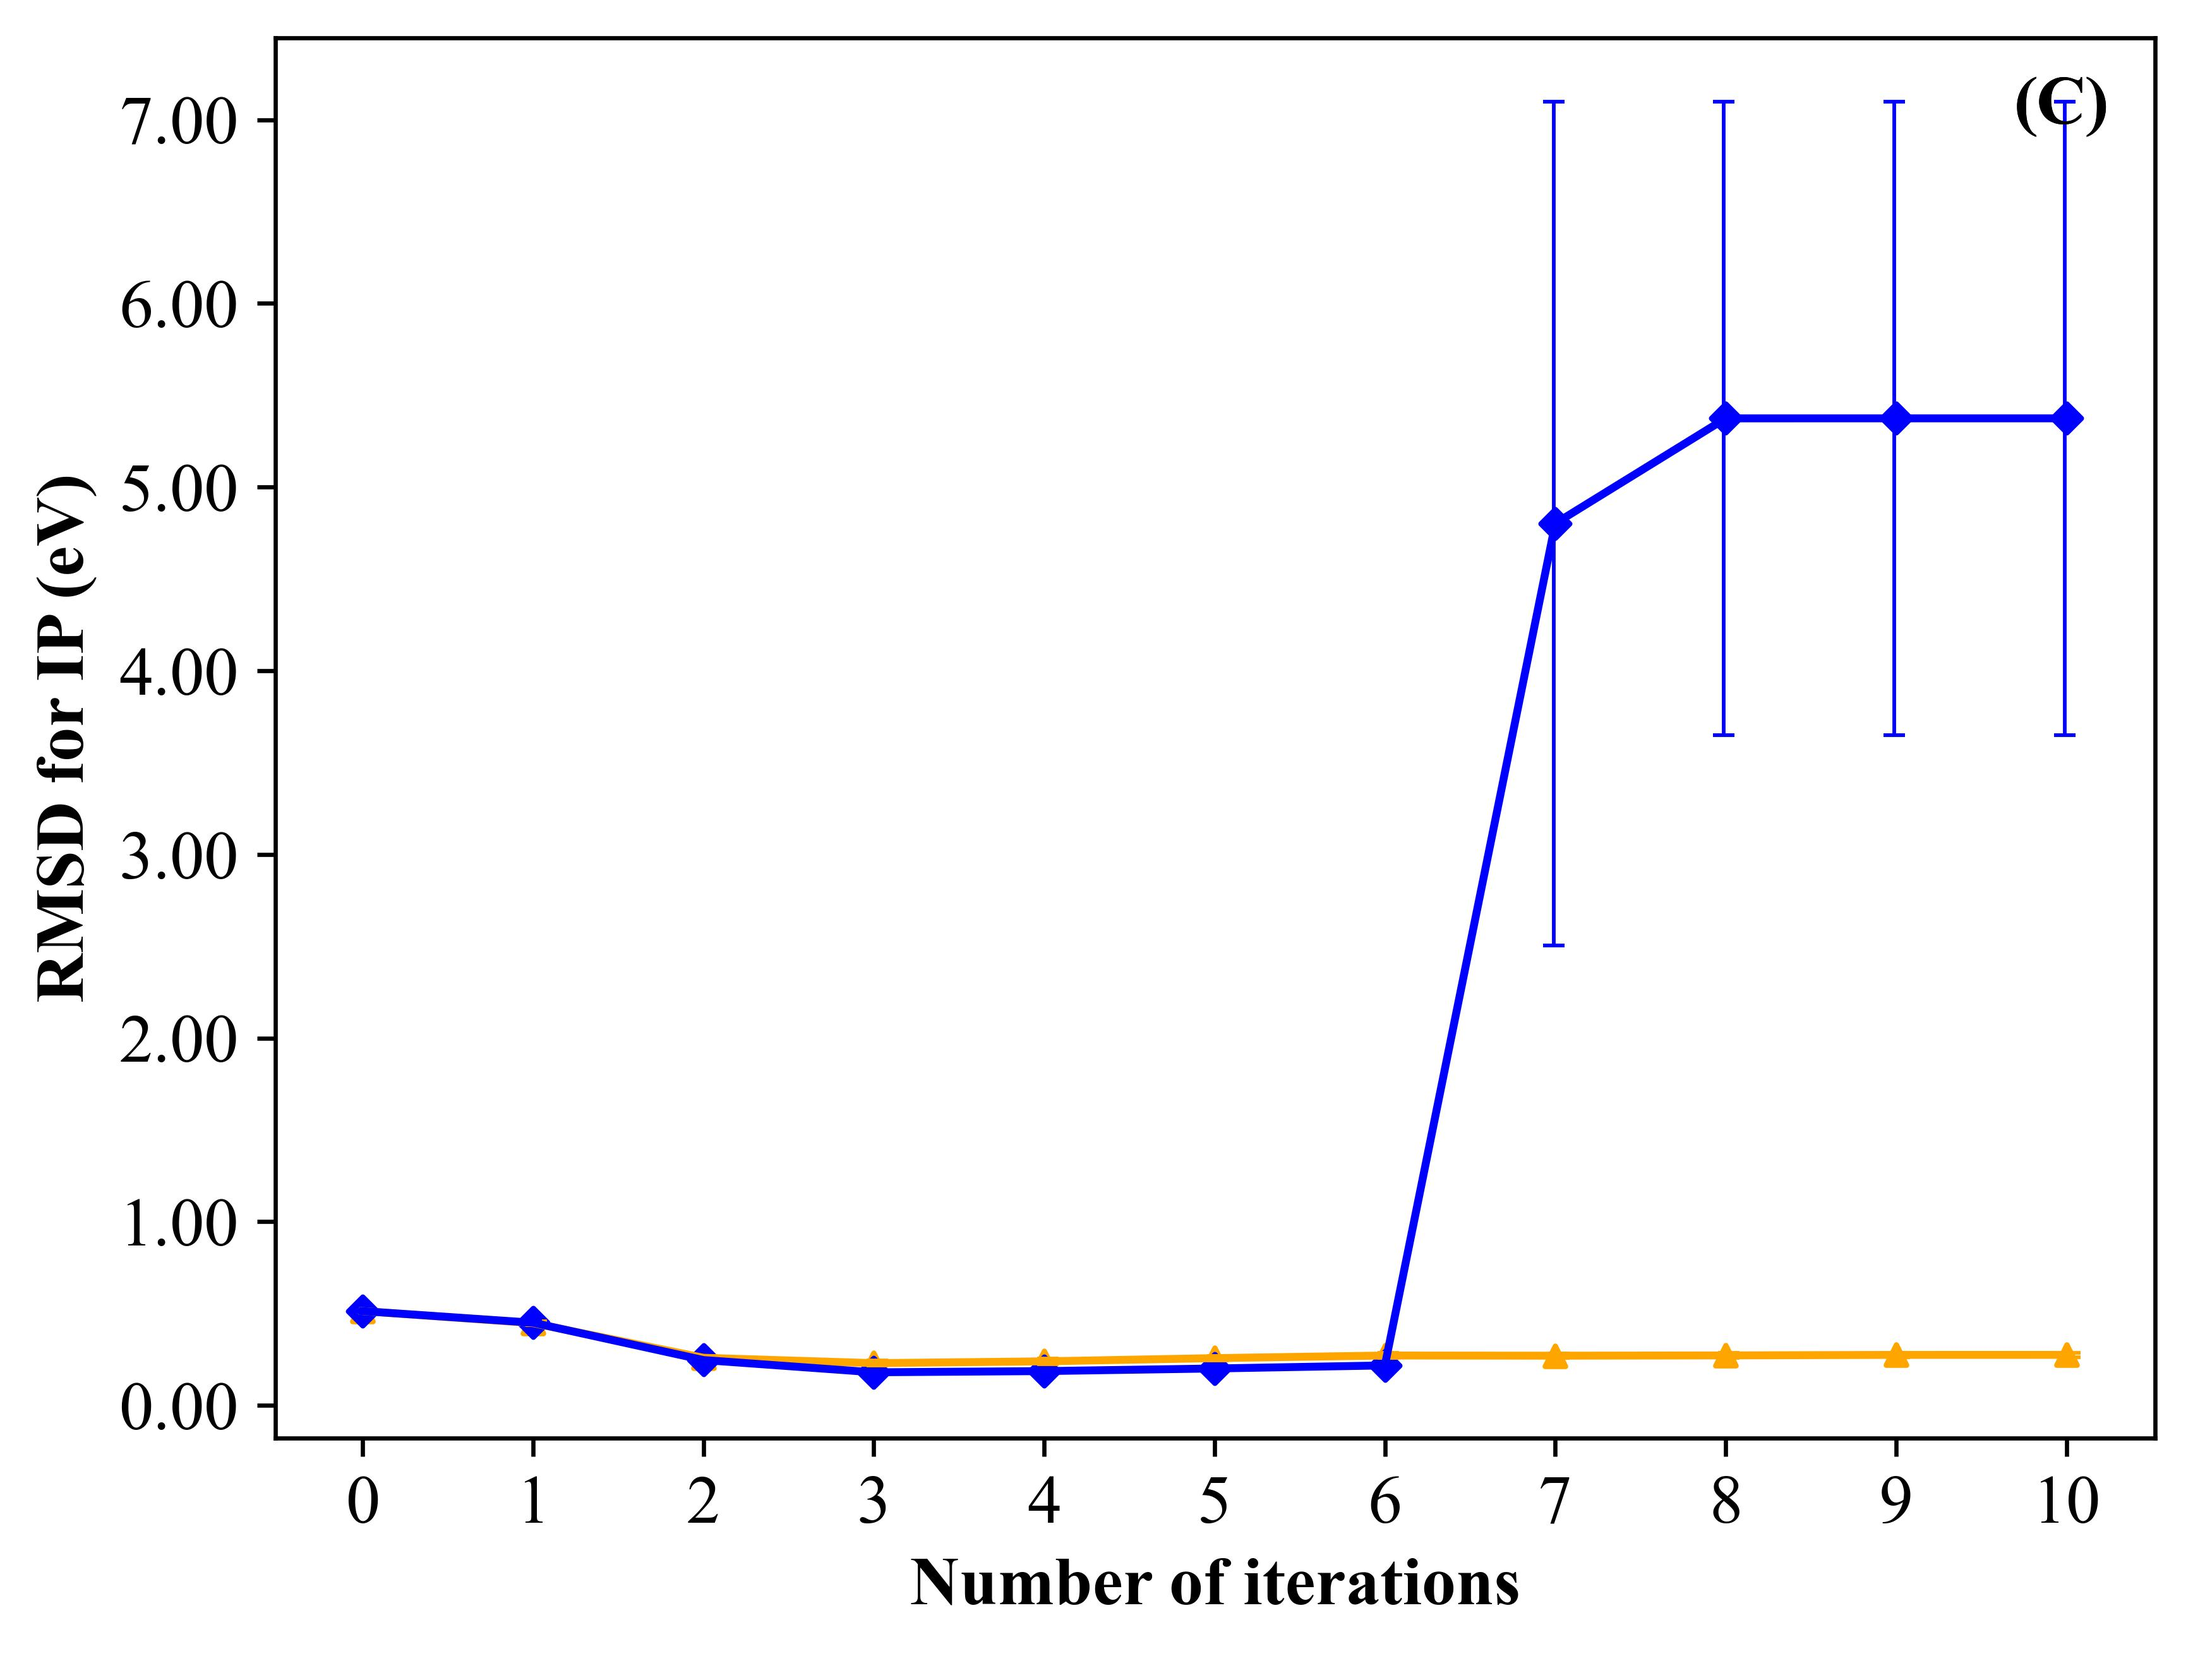
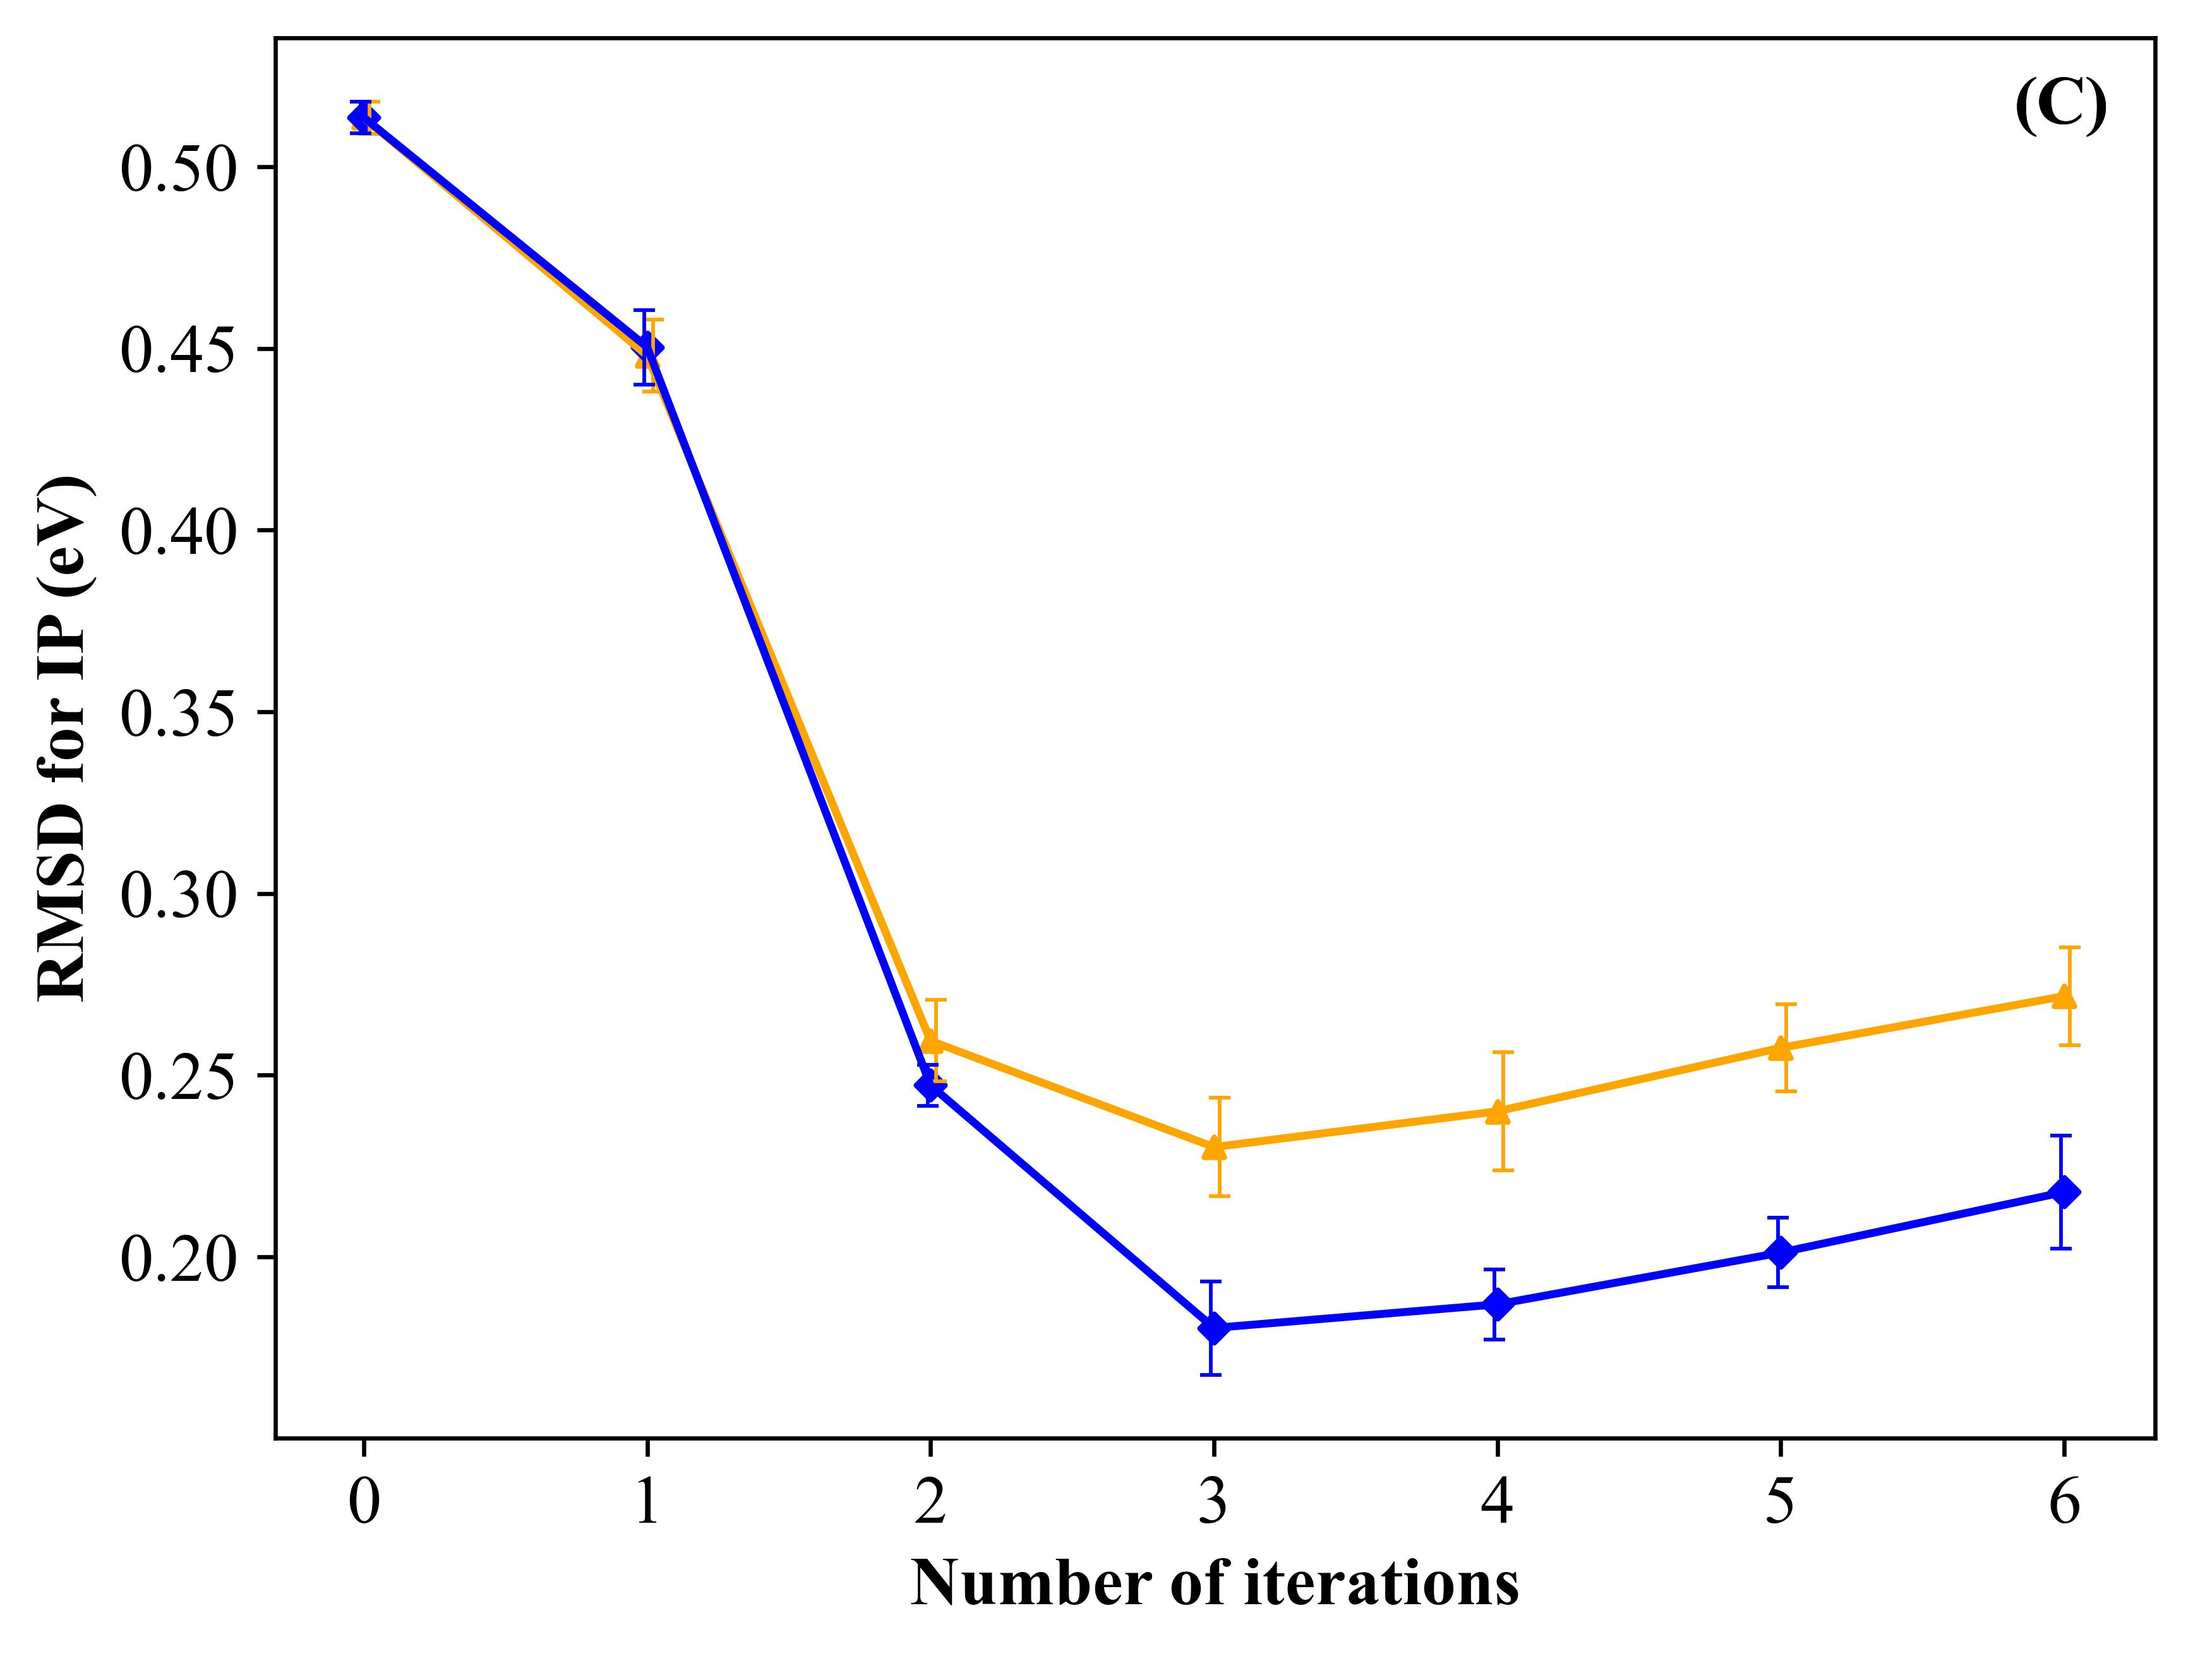
null

diff --git a/experiments/plot_vs_radius.py b/experiments/plot_vs_radius.py
@@ -14,7 +14,8 @@ from utils.plot_utility_v3 import scatter_plot, font_legend, annotate
 #for data in ["mixed","pah","subst"]:
 
 data = "subst"
-num_iters = list(range(0,11,1))
+#num_iters = list(range(0,11,1))
+num_iters = list(range(0,7,1))
 
 with open("\\".join(path) + "\\vs_ecfp_radius_"+ data+".pkl","rb") as handle:
     result = pickle.load(handle)

diff --git a/active_pipeline.py b/active_pipeline.py
@@ -123,7 +123,7 @@ def active_learning_pkl(kernel_str, data_type, repeat):
         elif kernel_str == "edge":
             #initial_split = 0.64
             #steps = 7
-            num_iter = [1,2]
+            num_iter = [0,1,2]
 
     elif data_type == "pah":
         loops = 30
